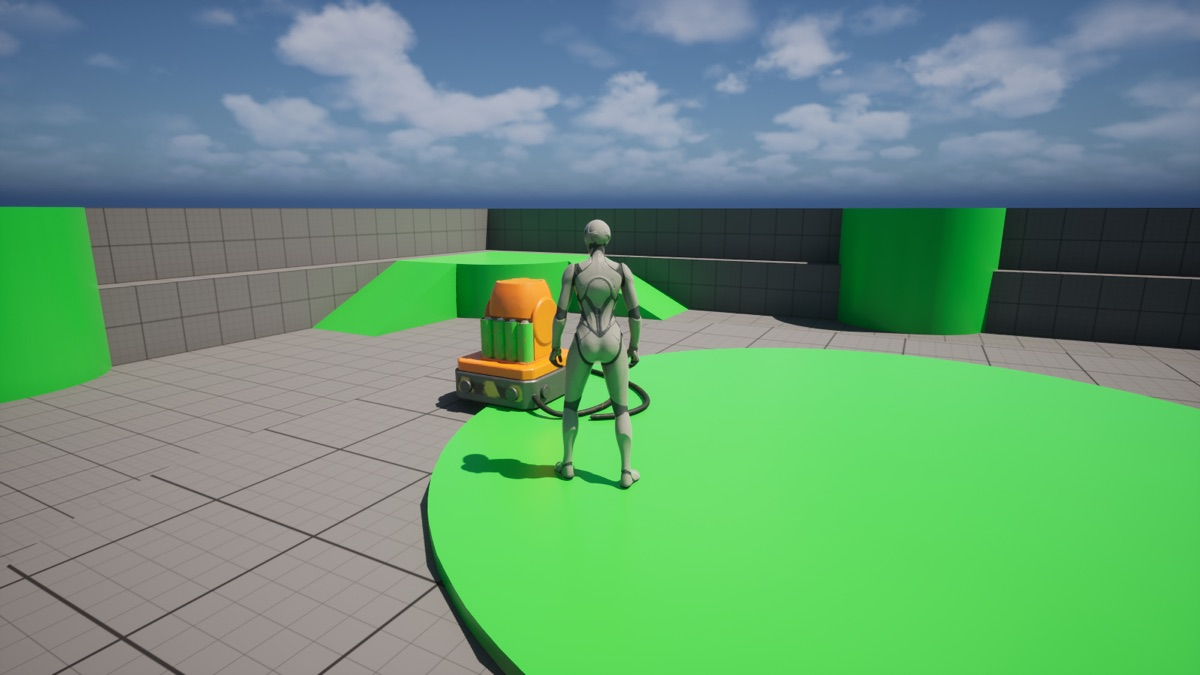
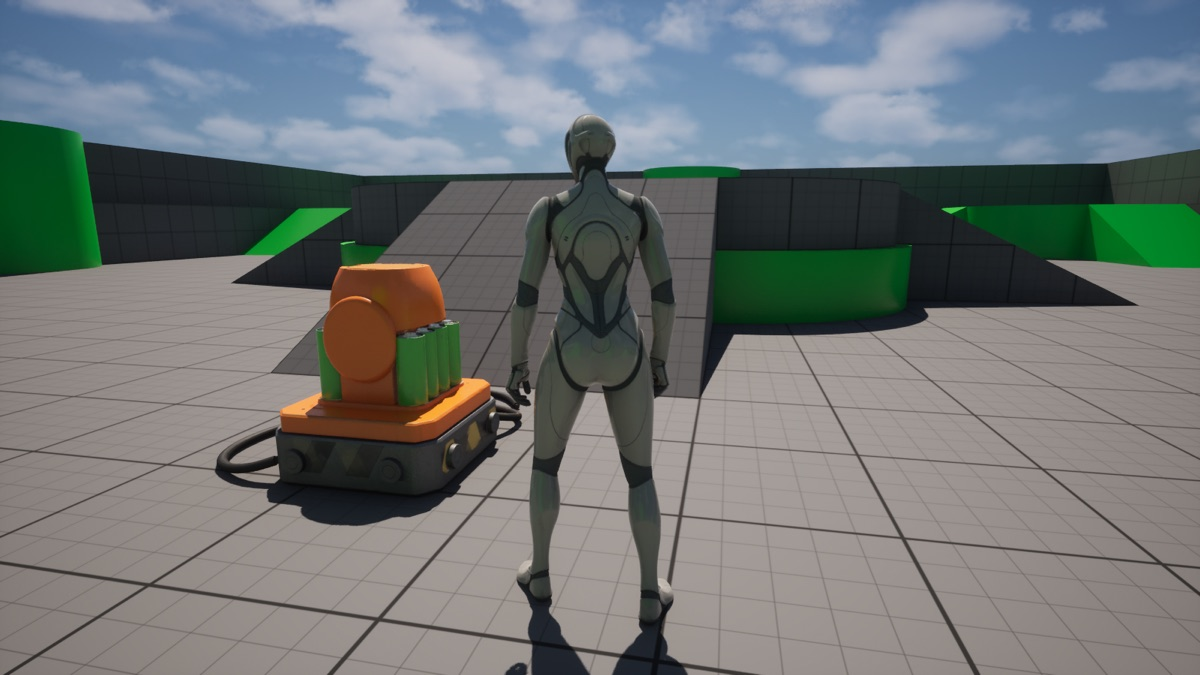
Cookbook 15: show the dock on flat floor and the Static Mesh Editor stats
Step 7's Play In Editor shot now faces the dock's front on the main floor.
Placed three meters in front of the PlayerStart, the dock overhung the edge
of the Third Person template's raised platform, so the agent was asked to
move it until it stood fully on the floor. Under the size check, a capture
of the Static Mesh Editor shows Approx Size 190x160x115 and Nanite on.
SOURCES.md records how both images were made.

diff --git a/examples/15-text-to-unreal-asset/assets/SOURCES.md b/examples/15-text-to-unreal-asset/assets/SOURCES.md
@@ -7,7 +7,9 @@ The two images in this table are the thumbnails Meshy rendered for the refine ta
[2 lines of base64/hex data omitted]
 
[2 lines of base64/hex data omitted]
+
[1 lines of base64/hex data omitted]
 
 The first-try description in full: "A chunky robot charging dock that works as the respawn checkpoint in a stylized platformer: a rounded orange housing with a large round battery gauge on the front, a scuffed steel base plate with four bolts, two thick black cables looping out of the back, and yellow and black hazard stripes along the bottom edge".
 

diff --git a/examples/15-text-to-unreal-asset/README.md b/examples/15-text-to-unreal-asset/README.md
@@ -176,6 +176,10 @@ Check two things:
 - **It stands on the floor.** The GLB's origin, the point the editor moves the model by, is in the middle of the model, and the import keeps it there. Our agent placed the dock with the `snap_to_ground` option of `SceneTools.add_to_scene_from_asset`, which sets its base on the floor. If your dock is half sunk into the floor, ask the agent to lift it until its base touches the floor; that's about 58 cm.
 - **It's the right size.** The dock is about 1.9 m wide and 1.15 m tall, next to a character 1.8 m tall. To check, double-click the static mesh: the Static Mesh Editor's viewport shows **Approx Size** in centimeters as width × depth × height, `190x160x115` in our run.
 
+| The Static Mesh Editor for the imported dock: Approx Size reads 190x160x115, and Nanite is on |
+|---|
+| ![The Static Mesh Editor's preview of the charging dock, with its stats listing Nanite Enabled, 476,470 Nanite triangles, Approx Size 190x160x115 and one collision primitive](assets/static-mesh-editor.jpg) |
+
 The agent doesn't save the level. When the dock is where you want it, choose **File > Save Current Level**.
 
 ## Try your own idea
